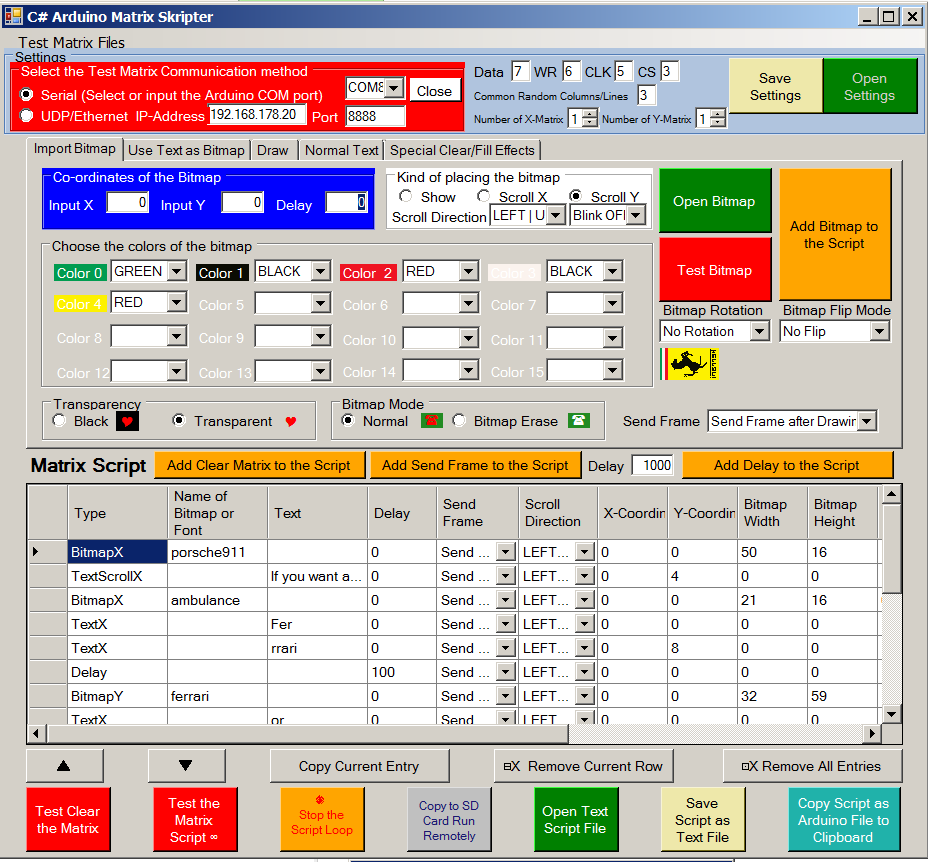
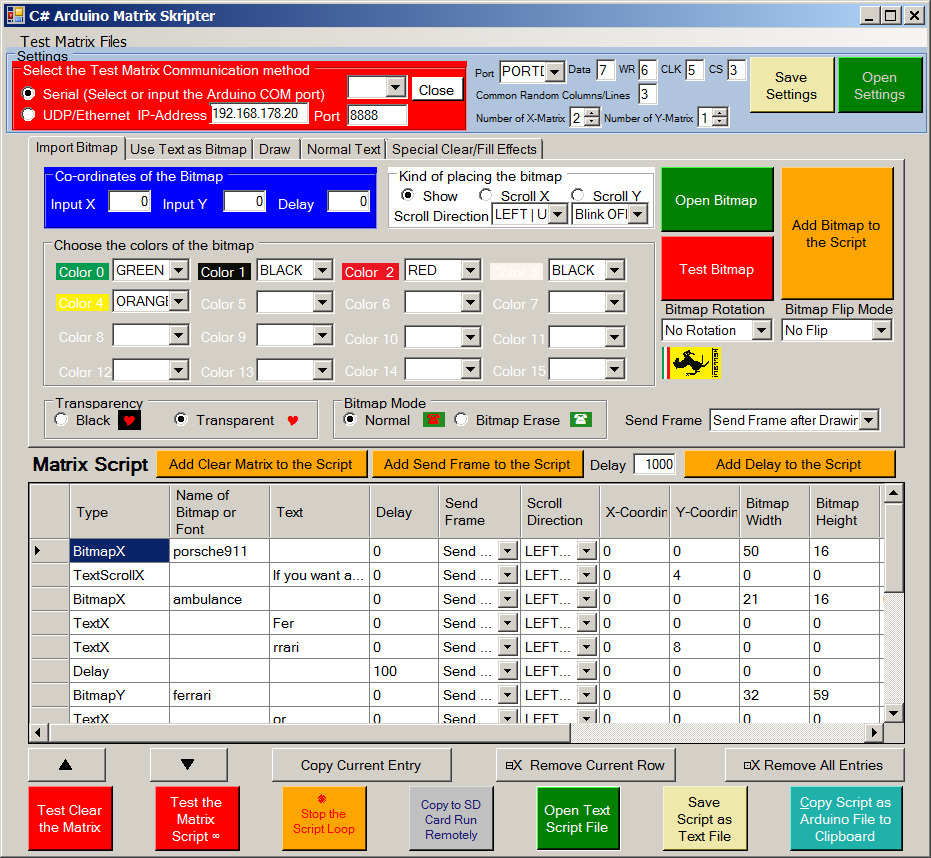
Port Selection added

Changed region(s): [[0.0, 0.0, 1.0, 1.0], [0.2812, 0.2121, 0.3438, 0.2424]]

diff --git a/MatrixSkripter/Form1.Designer.cs b/MatrixSkripter/Form1.Designer.cs
@@ -267,6 +267,8 @@
             this.AddDelayToScript = new System.Windows.Forms.Button();
             this.AddClearToScript = new System.Windows.Forms.Button();
             this.groupBox8 = new System.Windows.Forms.GroupBox();
+            this.label59 = new System.Windows.Forms.Label();
+            this.ArduinoPort = new System.Windows.Forms.ComboBox();
             this.label44 = new System.Windows.Forms.Label();
             this.CommonColumsLines = new System.Windows.Forms.TextBox();
             this.SaveSettings = new System.Windows.Forms.Button();
@@ -408,7 +410,7 @@
             this.NumberOfXMatrix.Size = new System.Drawing.Size(33, 22);
             this.NumberOfXMatrix.TabIndex = 19;
             this.NumberOfXMatrix.Value = new decimal(new int[] {
-            1,
+            2,
             0,
             0,
             0});
@@ -3373,6 +3375,8 @@
             // groupBox8
             // 
             this.groupBox8.BackColor = System.Drawing.Color.LightSteelBlue;
+            this.groupBox8.Controls.Add(this.label59);
+            this.groupBox8.Controls.Add(this.ArduinoPort);
             this.groupBox8.Controls.Add(this.label44);
             this.groupBox8.Controls.Add(this.CommonColumsLines);
             this.groupBox8.Controls.Add(this.SaveSettings);
@@ -3398,6 +3402,36 @@
             this.groupBox8.TabStop = false;
             this.groupBox8.Text = "Settings";
             // 
+            // label59
+            // 
+            this.label59.AutoSize = true;
+            this.label59.Font = new System.Drawing.Font("Microsoft Sans Serif", 6F, System.Drawing.FontStyle.Regular, System.Drawing.GraphicsUnit.Point, ((byte)(0)));
+            this.label59.Location = new System.Drawing.Point(466, 19);
+            this.label59.Name = "label59";
+            this.label59.Size = new System.Drawing.Size(26, 13);
+            this.label59.TabIndex = 39;
+            this.label59.Text = "Port";
+            // 
+            // ArduinoPort
+            // 
+            this.ArduinoPort.FormattingEnabled = true;
+            this.ArduinoPort.Items.AddRange(new object[] {
+            "PORTA",
+            "PORTB",
+            "PORTC",
+            "PORTD",
+            "PORTE",
+            "PORTF",
+            "PORTG",
+            "PORTH",
+            "PORTJ",
+            "PORTK",
+            "PORTL"});
+            this.ArduinoPort.Location = new System.Drawing.Point(493, 13);
+            this.ArduinoPort.Name = "ArduinoPort";
+            this.ArduinoPort.Size = new System.Drawing.Size(68, 24);
+            this.ArduinoPort.TabIndex = 38;
+            // 
             // label44
             // 
             this.label44.AutoSize = true;
@@ -3410,7 +3444,7 @@
             // 
             // CommonColumsLines
             // 
-            this.CommonColumsLines.Location = new System.Drawing.Point(633, 36);
+            this.CommonColumsLines.Location = new System.Drawing.Point(632, 36);
             this.CommonColumsLines.Name = "CommonColumsLines";
             this.CommonColumsLines.Size = new System.Drawing.Size(20, 22);
             this.CommonColumsLines.TabIndex = 35;
@@ -3420,9 +3454,9 @@
             // 
             this.SaveSettings.BackColor = System.Drawing.Color.PaleGoldenrod;
             this.SaveSettings.ForeColor = System.Drawing.SystemColors.ControlText;
-            this.SaveSettings.Location = new System.Drawing.Point(725, 10);
+            this.SaveSettings.Location = new System.Drawing.Point(744, 10);
             this.SaveSettings.Name = "SaveSettings";
-            this.SaveSettings.Size = new System.Drawing.Size(95, 56);
+            this.SaveSettings.Size = new System.Drawing.Size(85, 56);
             this.SaveSettings.TabIndex = 33;
             this.SaveSettings.Text = "Save Settings";
             this.SaveSettings.UseVisualStyleBackColor = false;
@@ -3432,9 +3466,9 @@
             // 
             this.OpenSettings.BackColor = System.Drawing.Color.Green;
             this.OpenSettings.ForeColor = System.Drawing.SystemColors.Control;
-            this.OpenSettings.Location = new System.Drawing.Point(819, 10);
+            this.OpenSettings.Location = new System.Drawing.Point(832, 10);
             this.OpenSettings.Name = "OpenSettings";
-            this.OpenSettings.Size = new System.Drawing.Size(95, 56);
+            this.OpenSettings.Size = new System.Drawing.Size(85, 56);
             this.OpenSettings.TabIndex = 32;
             this.OpenSettings.Text = "Open Settings";
             this.OpenSettings.UseVisualStyleBackColor = false;
@@ -3442,7 +3476,7 @@
             // 
             // CLK
             // 
-            this.CLK.Location = new System.Drawing.Point(610, 12);
+            this.CLK.Location = new System.Drawing.Point(679, 12);
             this.CLK.Name = "CLK";
             this.CLK.Size = new System.Drawing.Size(20, 22);
             this.CLK.TabIndex = 31;
@@ -3451,15 +3485,16 @@
             // label23
             // 
             this.label23.AutoSize = true;
-            this.label23.Location = new System.Drawing.Point(578, 15);
+            this.label23.Font = new System.Drawing.Font("Microsoft Sans Serif", 6F, System.Drawing.FontStyle.Regular, System.Drawing.GraphicsUnit.Point, ((byte)(0)));
+            this.label23.Location = new System.Drawing.Point(652, 15);
             this.label23.Name = "label23";
-            this.label23.Size = new System.Drawing.Size(34, 17);
+            this.label23.Size = new System.Drawing.Size(27, 13);
             this.label23.TabIndex = 30;
             this.label23.Text = "CLK";
             // 
             // CS
             // 
-            this.CS.Location = new System.Drawing.Point(656, 12);
+            this.CS.Location = new System.Drawing.Point(721, 12);
             this.CS.Name = "CS";
             this.CS.Size = new System.Drawing.Size(20, 22);
             this.CS.TabIndex = 29;
@@ -3468,15 +3503,16 @@
             // label24
             // 
             this.label24.AutoSize = true;
-            this.label24.Location = new System.Drawing.Point(631, 15);
+            this.label24.Font = new System.Drawing.Font("Microsoft Sans Serif", 6F, System.Drawing.FontStyle.Regular, System.Drawing.GraphicsUnit.Point, ((byte)(0)));
+            this.label24.Location = new System.Drawing.Point(700, 15);
             this.label24.Name = "label24";
-            this.label24.Size = new System.Drawing.Size(26, 17);
+            this.label24.Size = new System.Drawing.Size(21, 13);
             this.label24.TabIndex = 28;
             this.label24.Text = "CS";
             // 
             // DataText
             // 
-            this.DataText.Location = new System.Drawing.Point(507, 12);
+            this.DataText.Location = new System.Drawing.Point(590, 12);
             this.DataText.Name = "DataText";
             this.DataText.Size = new System.Drawing.Size(20, 22);
             this.DataText.TabIndex = 27;
@@ -3485,15 +3521,16 @@
             // label22
             // 
             this.label22.AutoSize = true;
-            this.label22.Location = new System.Drawing.Point(467, 15);
+            this.label22.Font = new System.Drawing.Font("Microsoft Sans Serif", 6F, System.Drawing.FontStyle.Regular, System.Drawing.GraphicsUnit.Point, ((byte)(0)));
+            this.label22.Location = new System.Drawing.Point(559, 15);
             this.label22.Name = "label22";
-            this.label22.Size = new System.Drawing.Size(38, 17);
+            this.label22.Size = new System.Drawing.Size(30, 13);
             this.label22.TabIndex = 26;
             this.label22.Text = "Data";
             // 
             // WR
             // 
-            this.WR.Location = new System.Drawing.Point(558, 12);
+            this.WR.Location = new System.Drawing.Point(632, 12);
             this.WR.Name = "WR";
             this.WR.Size = new System.Drawing.Size(20, 22);
             this.WR.TabIndex = 25;
@@ -3502,9 +3539,10 @@
             // label21
             // 
             this.label21.AutoSize = true;
-            this.label21.Location = new System.Drawing.Point(527, 15);
+            this.label21.Font = new System.Drawing.Font("Microsoft Sans Serif", 6F, System.Drawing.FontStyle.Regular, System.Drawing.GraphicsUnit.Point, ((byte)(0)));
+            this.label21.Location = new System.Drawing.Point(610, 15);
             this.label21.Name = "label21";
-            this.label21.Size = new System.Drawing.Size(31, 17);
+            this.label21.Size = new System.Drawing.Size(23, 13);
             this.label21.TabIndex = 24;
             this.label21.Text = "WR";
             // 
@@ -4076,6 +4114,8 @@
         private System.Windows.Forms.DataGridViewComboBoxColumn FrontTextColor;
         private System.Windows.Forms.DataGridViewComboBoxColumn BackTextColor;
         private System.Windows.Forms.DataGridViewComboBoxColumn ScrollBlinking;
+        private System.Windows.Forms.Label label59;
+        private System.Windows.Forms.ComboBox ArduinoPort;
            
     }
 }

diff --git a/MatrixSkripter/Form1.cs b/MatrixSkripter/Form1.cs
@@ -79,6 +79,7 @@ namespace WindowsFormsApplication1
             this.TextScrollBlinking.SelectedIndex = 0;
             this.BitmapScrollBlinking.SelectedIndex = 0;
             this.TextBitmapScrollBlinking.SelectedIndex = 0;
+            this.ArduinoPort.SelectedIndex = 3;
         }
 
         /*
@@ -4123,7 +4124,7 @@ namespace WindowsFormsApplication1
             ArduinoTestFileText += "*/\n\n ";
 
             ArduinoTestFileText += "#include <ht1632c.h>\n";
-            ArduinoTestFileText += "ht1632c dotmatrix = ht1632c(&PORTD," + DataText.Text + "," + WR.Text + "," + CLK.Text + "," + CS.Text + ",GEOM_32x16," + numberofdisplays.ToString() + ");\n";
+            ArduinoTestFileText += "ht1632c dotmatrix = ht1632c(&" + ArduinoPort.Text + "," + DataText.Text + "," + WR.Text + "," + CLK.Text + "," + CS.Text + ",GEOM_32x16," + numberofdisplays.ToString() + ");\n";
             ArduinoTestFileText += "#define Number_of_X_Displays " + NumberOfXMatrix.Value.ToString() + "\n";
             ArduinoTestFileText += "#define Number_of_Y_Displays " + NumberOfYMatrix.Value.ToString() + "\n";
             ArduinoTestFileText += "#define X_MAX (32*Number_of_X_Displays-1)" + "\n";
@@ -4417,7 +4418,7 @@ namespace WindowsFormsApplication1
             numberofdisplays = (int)NumberOfXMatrix.Value * (int)NumberOfYMatrix.Value;
             string ArduinoTestFileText = "";
             ArduinoTestFileText += "/*\n";
-            ArduinoTestFileText += "TestMatrixSerial.ino:\n";
+            ArduinoTestFileText += "TestMatrixUDP.ino:\n";
             ArduinoTestFileText += "by Johann Zoehrer\n";
             ArduinoTestFileText += "Based on UDPSendReceive.pde:\n";
             ArduinoTestFileText += " This sketch receives UDP message strings, prints them to the serial port\n";
@@ -4437,7 +4438,7 @@ namespace WindowsFormsApplication1
             ArduinoTestFileText += "#include <Ethernet.h>\n";
             ArduinoTestFileText += "#include <EthernetUdp.h>         // UDP library from: bjoern@cs.stanford.edu 12/30/2008\n";
             ArduinoTestFileText += "#include <ht1632c.h>\n";
-            ArduinoTestFileText += "ht1632c dotmatrix = ht1632c(&PORTD," + DataText.Text + "," + WR.Text + "," + CLK.Text + "," + CS.Text + ",GEOM_32x16," + numberofdisplays.ToString() + ");\n";
+            ArduinoTestFileText += "ht1632c dotmatrix = ht1632c(&"+ ArduinoPort.Text+"," + DataText.Text + "," + WR.Text + "," + CLK.Text + "," + CS.Text + ",GEOM_32x16," + numberofdisplays.ToString() + ");\n";
             ArduinoTestFileText += "#define Number_of_X_Displays " + NumberOfXMatrix.Value.ToString() + "\n";
             ArduinoTestFileText += "#define Number_of_Y_Displays " + NumberOfYMatrix.Value.ToString() + "\n";
             ArduinoTestFileText += "#define X_MAX (32*Number_of_X_Displays-1)" + "\n";
@@ -4739,10 +4740,15 @@ namespace WindowsFormsApplication1
             string[] BmdRow, BmdRowData;
             int numberofdisplays = 1, bitmapcounter = 0, scrollbitmapcounter = 0, writetextcounter = 0;
             string ArduinoFileText = "";
+            ArduinoFileText += "/*\n";            
+            ArduinoFileText += "Based on Lonewolf's ht1632c library, http://code.google.com/p/ht1632c/ \n";
+            ArduinoFileText += "Could be adapted for other devices by changing the library and the plot method\n";
+            ArduinoFileText += "*/\n\n";
+
             ArduinoFileText += "#include <ht1632c.h>\n";
             numberofdisplays = (int)NumberOfXMatrix.Value * (int)NumberOfYMatrix.Value;
 
-            ArduinoFileText += "ht1632c dotmatrix = ht1632c(&PORTD," + DataText.Text + "," + WR.Text + "," + CLK.Text + "," + CS.Text + ",GEOM_32x16," + numberofdisplays.ToString() + ");\n";
+            ArduinoFileText += "ht1632c dotmatrix = ht1632c(&"+ ArduinoPort.Text+"," + DataText.Text + "," + WR.Text + "," + CLK.Text + "," + CS.Text + ",GEOM_32x16," + numberofdisplays.ToString() + ");\n";
             ArduinoFileText += "#define Number_of_X_Displays " + NumberOfXMatrix.Value.ToString() + "\n";
             ArduinoFileText += "#define Number_of_Y_Displays " + NumberOfYMatrix.Value.ToString() + "\n";
             ArduinoFileText += "#define X_MAX (32*Number_of_X_Displays-1)\n";
@@ -5554,14 +5560,14 @@ namespace WindowsFormsApplication1
             saveFileDialog1.RestoreDirectory = true;
             if (saveFileDialog1.ShowDialog() != DialogResult.OK) return;
             StreamWriter sw = new StreamWriter(saveFileDialog1.FileName);
-            sw.WriteLine("ComPort\tXMatrix\tYMatrix\tData\tWR\tCLK\tCS\tCommon");
+            sw.WriteLine("ComPort\tXMatrix\tYMatrix\tArduinoPort\tData\tWR\tCLK\tCS\tCommon");
             if (SPorts.SelectedIndex == -1)
             {
-                sw.WriteLine(" \t" + NumberOfXMatrix.Value.ToString() + "\t" + NumberOfYMatrix.Value.ToString() + "\t" + DataText.Text + "\t" + WR.Text + "\t" + CLK.Text + "\t" + CS.Text + "\t" + CommonColumsLines.Text);
+                sw.WriteLine(" \t" + NumberOfXMatrix.Value.ToString() + "\t" + NumberOfYMatrix.Value.ToString() + "\t" + ArduinoPort.Text + "\t" + DataText.Text + "\t" + WR.Text + "\t" + CLK.Text + "\t" + CS.Text + "\t" + CommonColumsLines.Text);
             }
             else
             {
-                sw.WriteLine(SPorts.Text + "\t" + NumberOfXMatrix.Value.ToString() + "\t" + NumberOfYMatrix.Value.ToString() + "\t" + DataText.Text + "\t" + WR.Text + "\t" + CLK.Text + "\t" + CS.Text + "\t" + CommonColumsLines.Text);
+                sw.WriteLine(SPorts.Text + "\t" + NumberOfXMatrix.Value.ToString() + "\t" + NumberOfYMatrix.Value.ToString() + "\t" + ArduinoPort.Text + "\t" + DataText.Text + "\t" + WR.Text + "\t" + CLK.Text + "\t" + CS.Text + "\t" + CommonColumsLines.Text);
             }
             sw.Close();
         }
@@ -5595,11 +5601,12 @@ namespace WindowsFormsApplication1
                 SPorts.Text = CSVRowMember[0];
                 NumberOfXMatrix.Value = Convert.ToInt16(CSVRowMember[1]);
                 NumberOfYMatrix.Value = Convert.ToInt16(CSVRowMember[2]);
-                DataText.Text = CSVRowMember[3];
-                WR.Text = CSVRowMember[4];
-                CLK.Text = CSVRowMember[5];
-                CS.Text = CSVRowMember[6];
-                CommonColumsLines.Text = CSVRowMember[7];
+                ArduinoPort.Text = CSVRowMember[3];
+                DataText.Text = CSVRowMember[4];
+                WR.Text = CSVRowMember[5];
+                CLK.Text = CSVRowMember[6];
+                CS.Text = CSVRowMember[7];
+                CommonColumsLines.Text = CSVRowMember[8];
             }
         }
 

diff --git a/README.md b/README.md
@@ -65,8 +65,8 @@ matrix will be sent. Also only the visible pixel will be plotted.
 <h1>What is needed?</h1>
 
 <p>An Arduino
-board with serial communication, best over USB, I didn't get the Mega 2560
-board to run</p>
+board with serial communication, best over USB, for <a
+href="http://arduino.cc/forum/index.php?PHPSESSID=a49f8435471fd16ceffcd8f76d90e59c&topic=50326.msg739037#msg739037">Mega 2560 configuration look at Tjaah post</a></p>
 
 <p>A Sure
 Electronics 32x16 bicolor LED matrix with Holtek ht1632c chip</p>
